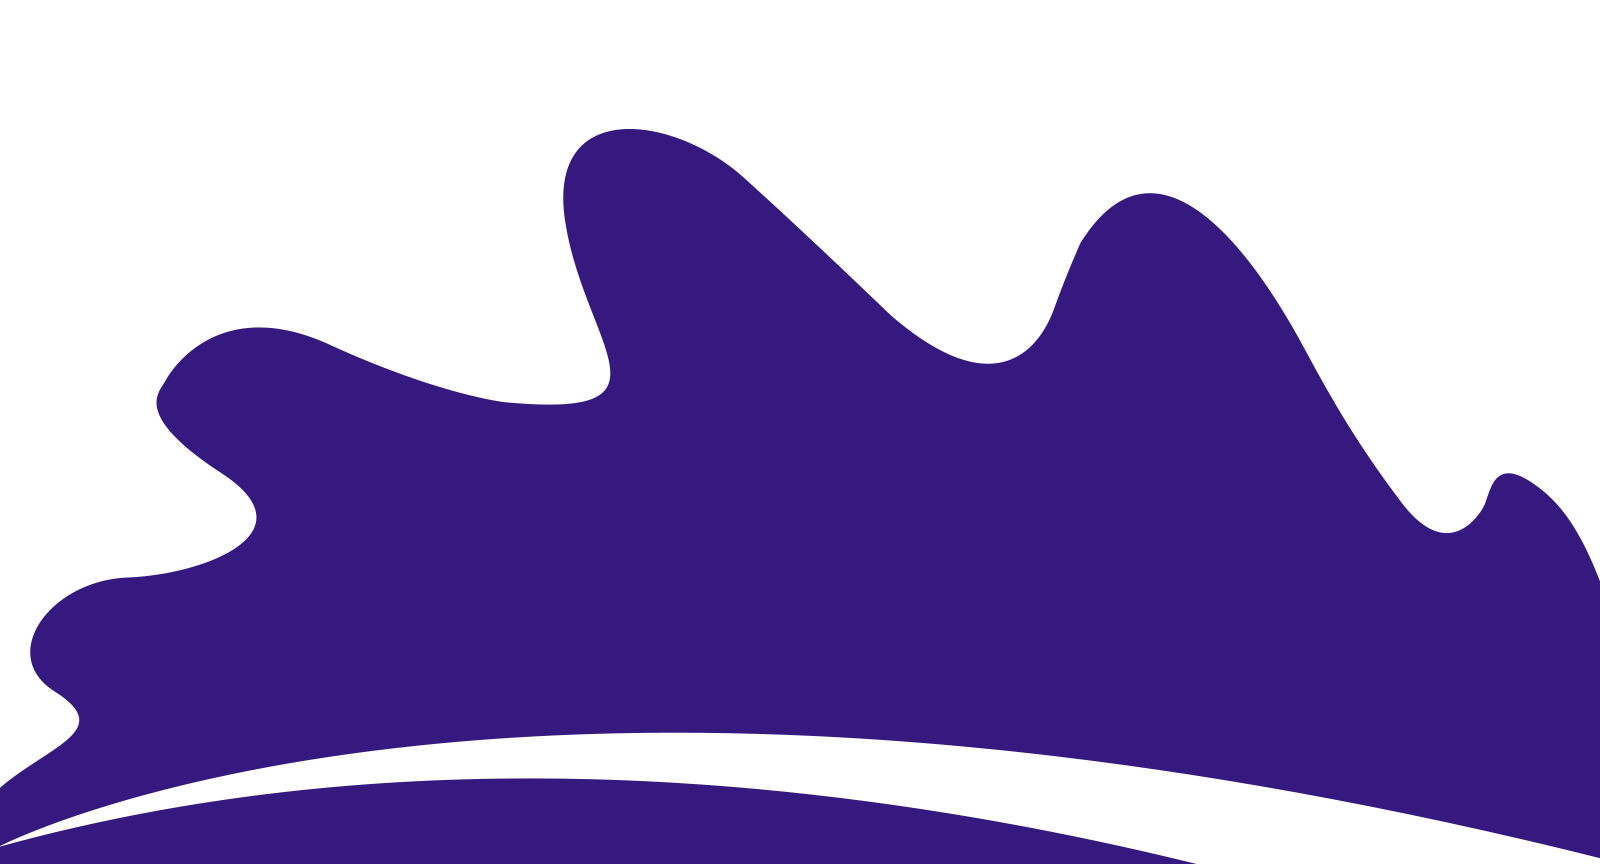
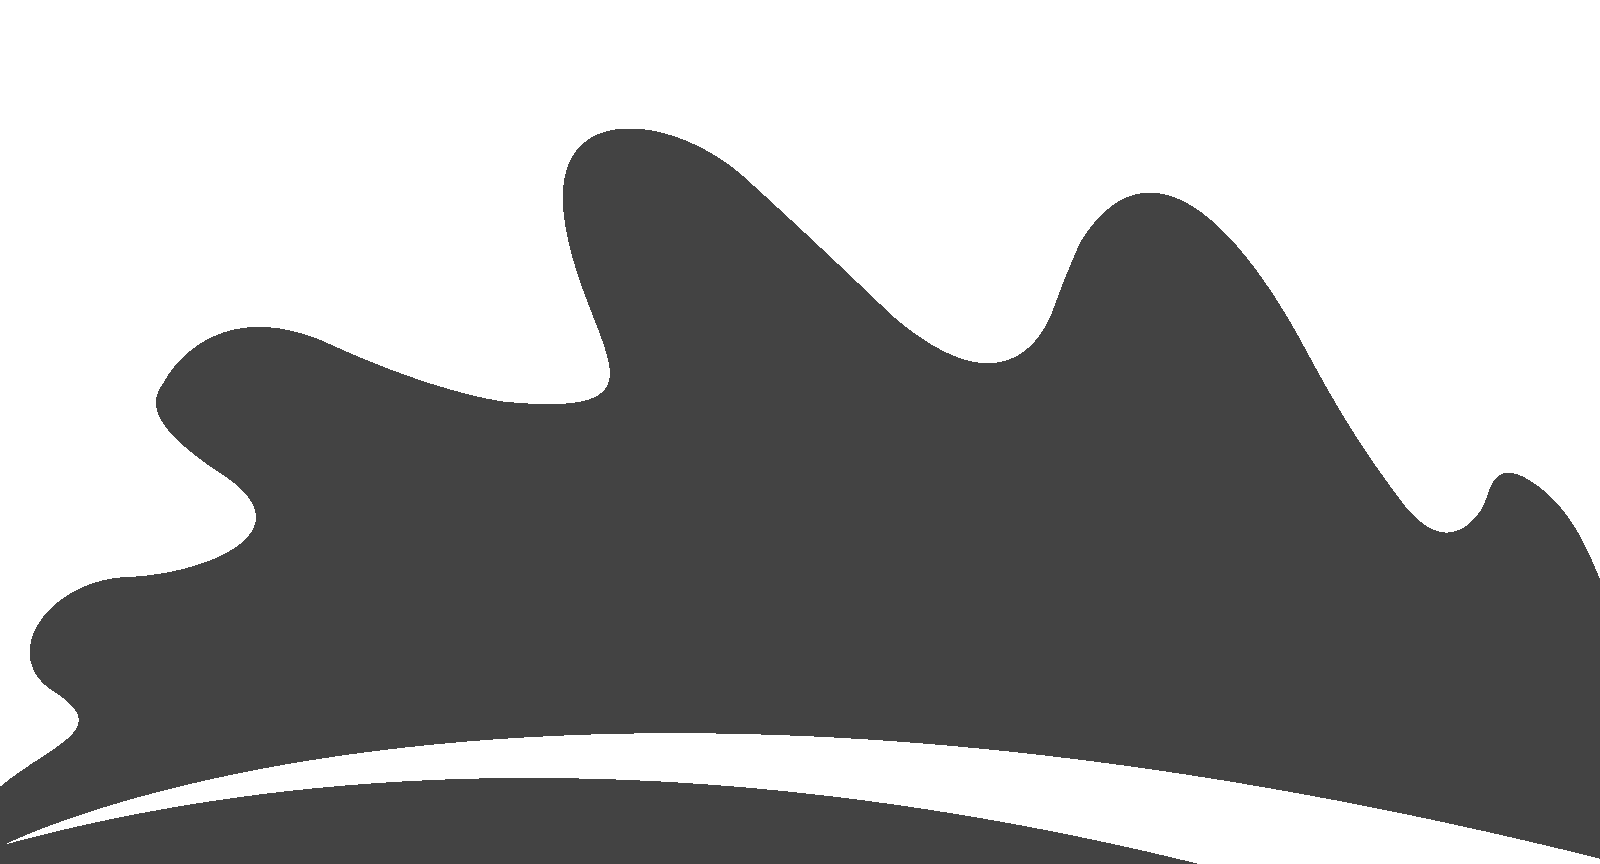
images

diff --git a/index.html b/index.html
@@ -77,9 +77,30 @@
     </div>
   </div>
   <div class="layer-bg w-100">
-    <img class="img-fluid w-100" src="images/illustrations/milk.jpg" alt="bg-shape">
+    <img class="img-fluid w-100" src="images/illustrations/leaf-bg.png" alt="bg-shape">
+  </div>
+  <div class="layer" id="l2">
+    <img src="images/illustrations/6.png" alt="bg-shape">
+  </div>
+  <div class="layer" id="l3">
+    <img src="images/illustrations/1.png" alt="bg-shape">
+  </div>
+  <div class="layer" id="l4">
+    <img src="images/illustrations/2.png" alt="bg-shape">
+  </div>
+  <div class="layer" id="l5">
+    <img src="images/illustrations/2.png" alt="bg-shape">
   </div>
   <div class="layer" id="l6">
+    <img src="images/illustrations/4.png" alt="bg-shape">
+  </div>
+  <div class="layer" id="l7">
+    <img src="images/illustrations/5.png" alt="bg-shape">
+  </div>
+  <div class="layer" id="l8">
+    <img src="images/illustrations/3.png" alt="bg-shape">
+  </div>
+  <div class="layer" id="l9">
     <img src="images/illustrations/stickfigure.png" alt="bg-shape">
   </div>
   <!-- social icon -->

diff --git a/css/style.css b/css/style.css
@@ -228,7 +228,7 @@ a:hover {
 }
 
 .bg-primary {
-  background: #0f5da6 !important;
+  background: #5a5a5a !important;
 }
 
 .bg-gray {
